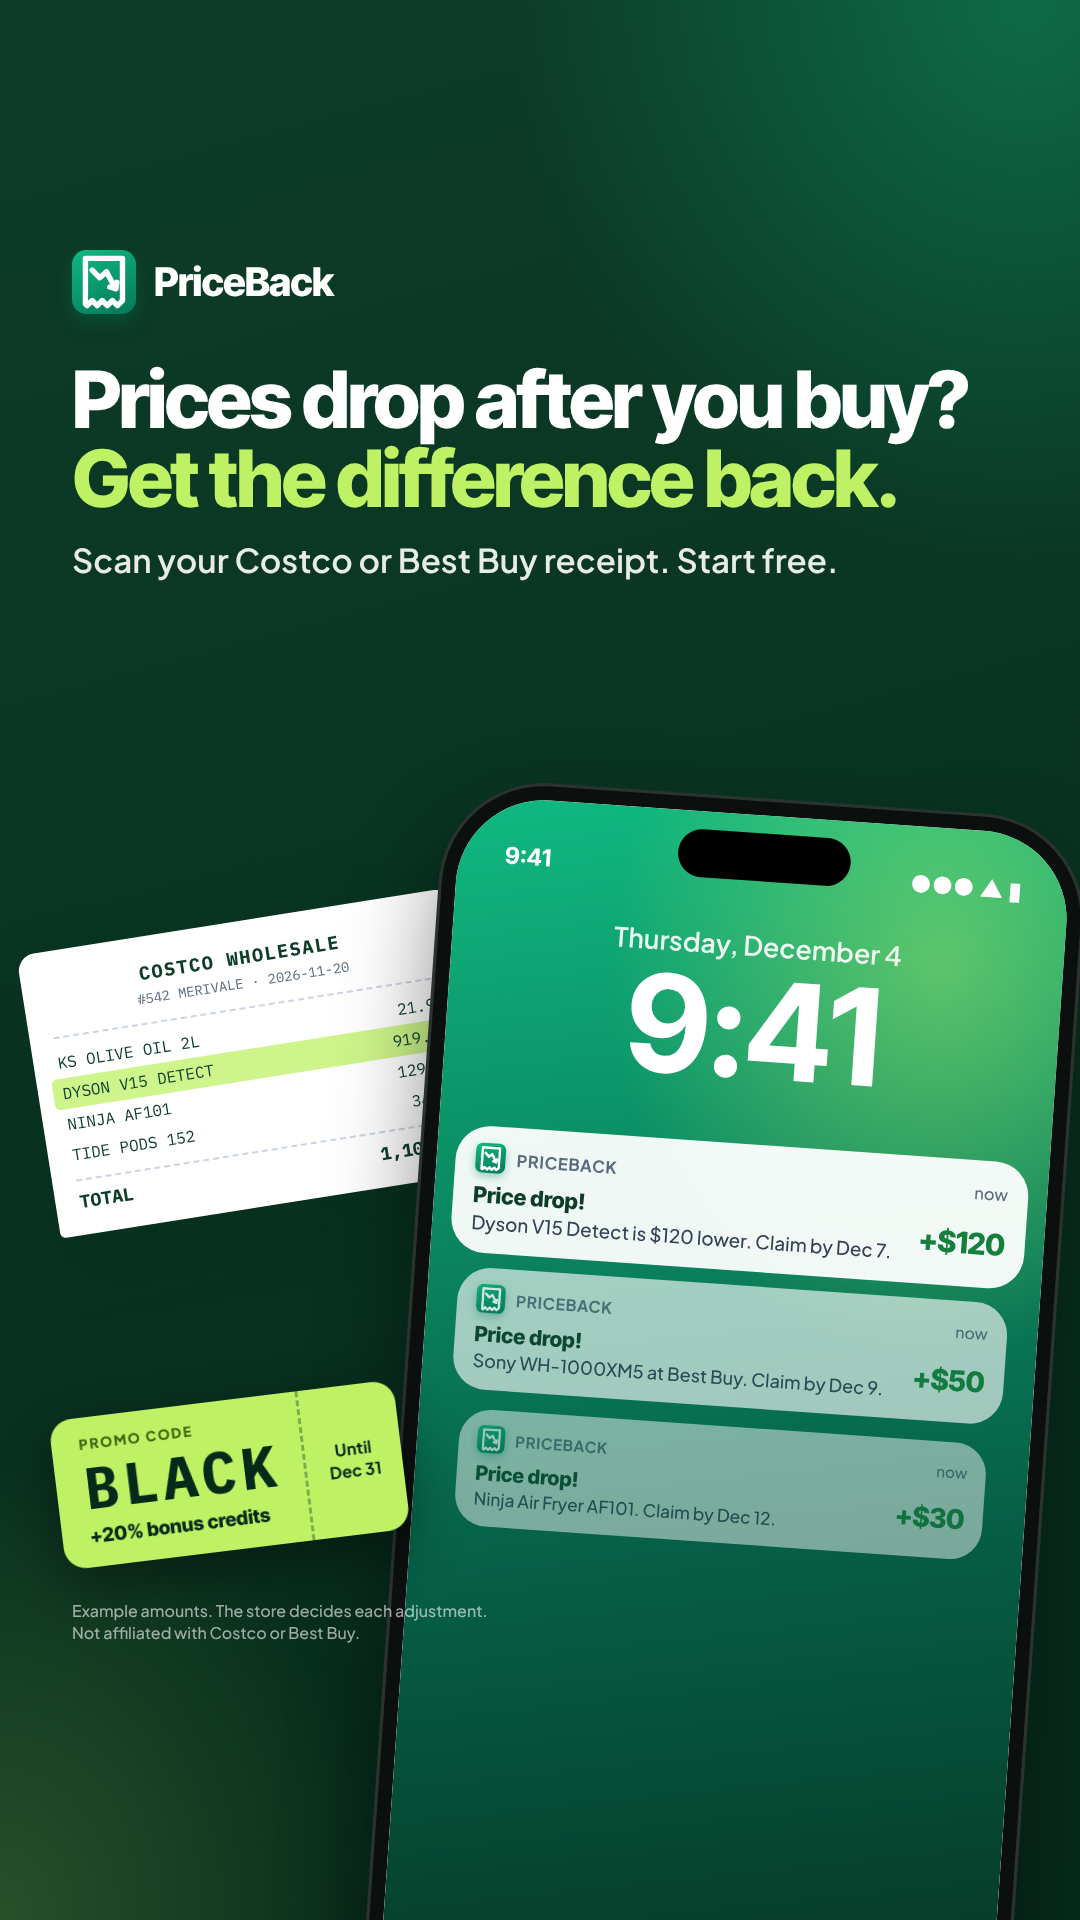
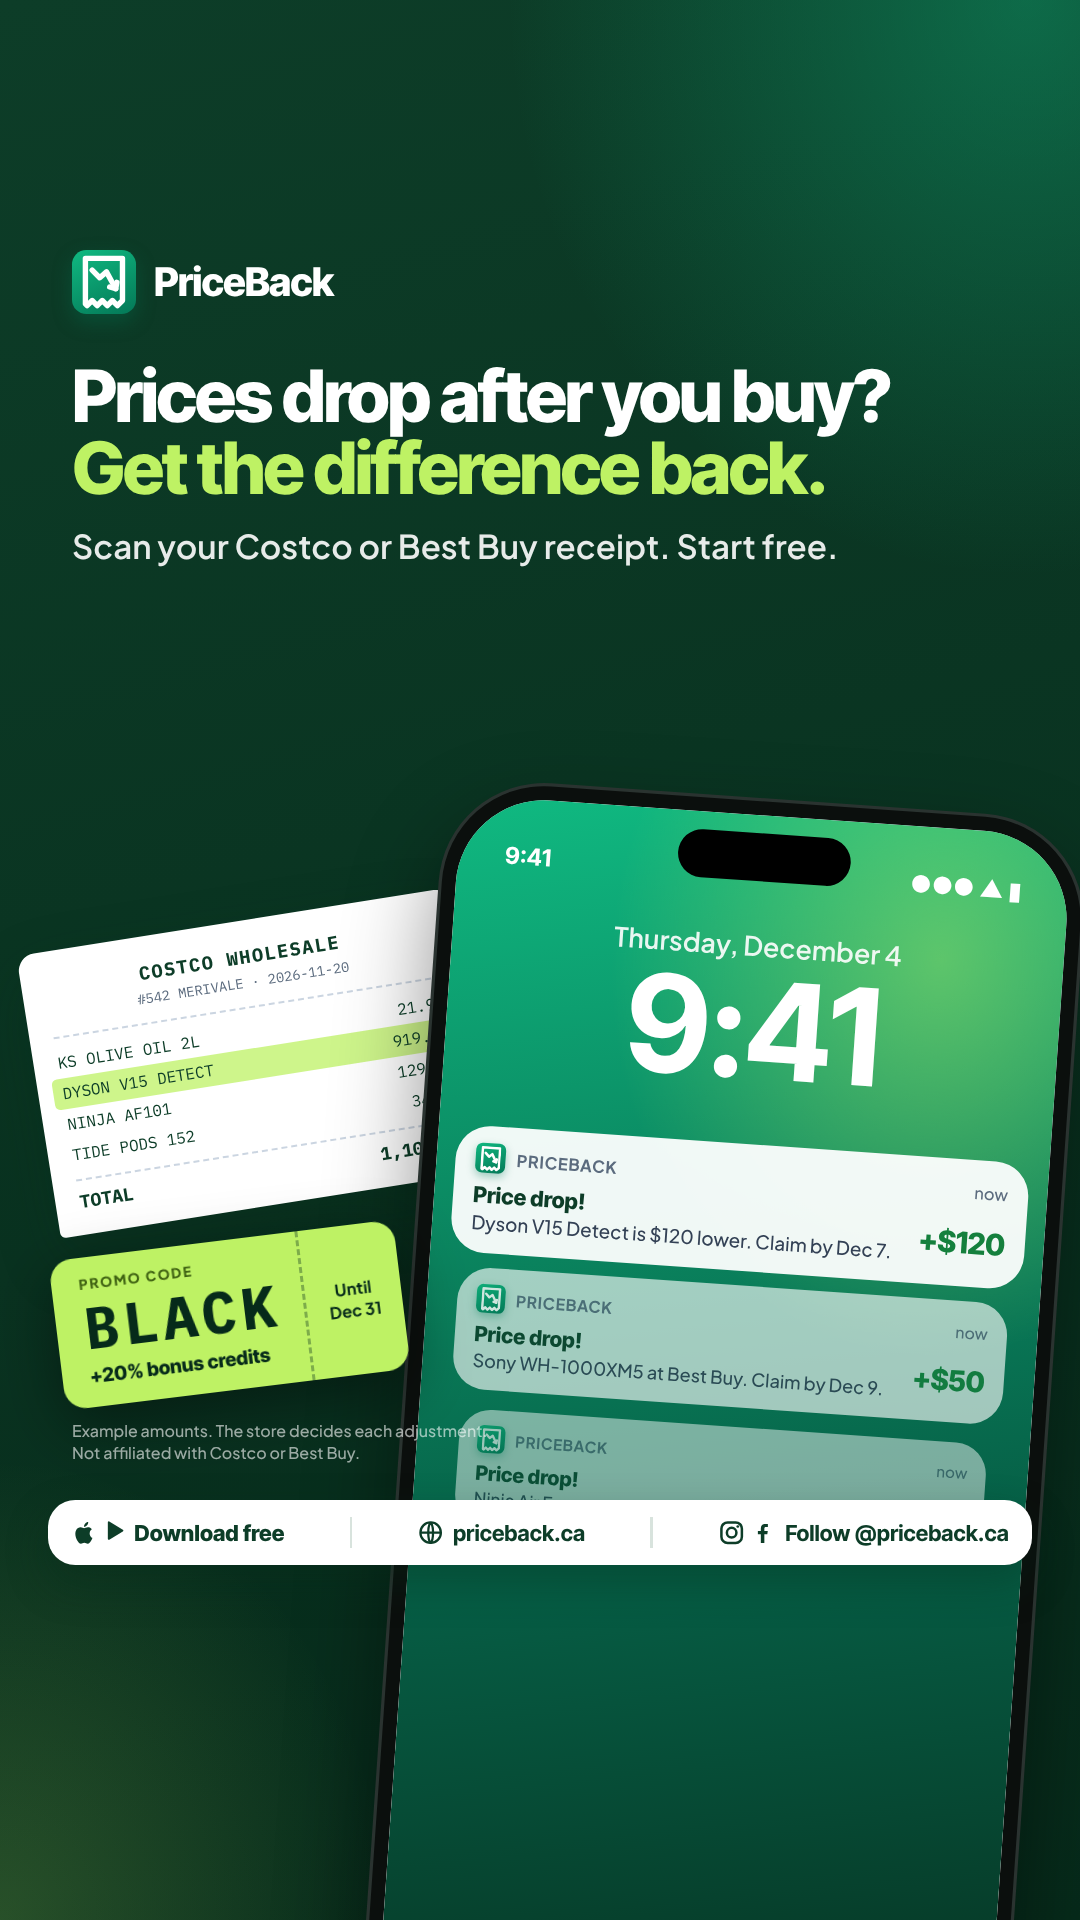
docs(marketing): five campaign-1 hooks, footer band (download, website, follow), French headline
Maxim, 2026-11-27: hooks around the real warehouse price, sold out, a saving missed
by a day and the flyer vs your warehouse, beside 'Stop asking the group'; every ad
names the download, priceback.ca and @priceback.ca. French campaign-1 headline is
Maxim's: 'Arrêtez de demander au groupe. Demandez à PriceBack.' EN first; FR for
the chosen hooks next.

Claude-Session: https://claude.ai/code/session_01VjE6kd5fuG1wTxpgLx5wMp

Changed region(s): [[0.0611, 0.1875, 0.9167, 0.3125], [0.0306, 0.625, 0.9778, 0.875]]

diff --git a/Marketing-Plan/launch-2026-12/source/creatives.html b/Marketing-Plan/launch-2026-12/source/creatives.html
@@ -199,7 +199,7 @@ const COPY = {
     prod: "Dyson V15 Detect", prodMeta: "Jusqu’au 7 déc. · −13 %", save: "−120 $",
     whs: [["Merivale #542 · ON", "En stock · aujourd’hui", "g", "799,99 $"], ["Laval · QC", "En stock · aujourd’hui", "g", "799,99 $"], ["Burnaby · BC", "En rupture · hier", "r", "799,99 $"]],
     example: "Exemple",
-    h1: "Fini de demander au groupe.", h2: "Demandez à PriceBack.",
+    h1: "Arrêtez de demander au groupe.", h2: "Demandez à PriceBack.",
     sub: "<b>Tous les rabais et prix Costco</b>, dans chaque entrepôt au Canada, Centres d’affaires inclus. Dernier stock connu. <b>Gratuit.</b>",
     plus: "En plus : numérisez vos reçus Costco et Best Buy et soyez alerté quand le prix baisse.",
     cap: "Code promo", perk: "+20 % de crédits bonis", until: "Jusqu’au<br>31 déc.",
@@ -493,7 +493,7 @@ const ADCOPY = {
           s1: "100%", s2: "FREE", s3: "No credit card",
           b: ["Anyone seen the Dyson V15 on sale at their warehouse?? 🙏", "following 👀", "following"],
           legal: "Example prices. Independent app, not affiliated with Costco." },
-    fr: { h1: "Fini de demander au groupe.", h2: "Demandez à PriceBack.", sub: "Tous les rabais et prix Costco, dans chaque entrepôt au Canada.",
+    fr: { h1: "Arrêtez de demander au groupe.", h2: "Demandez à PriceBack.", sub: "Tous les rabais et prix Costco, dans chaque entrepôt au Canada.",
           s1: "100 %", s2: "GRATUIT", s3: "Aucune carte",
           b: ["Quelqu’un a vu le Dyson V15 en rabais à son entrepôt?? 🙏", "Suivi 👀", "je suis"],
           legal: "Prix en exemple. App indépendante, non affiliée à Costco." },
@@ -510,6 +510,29 @@ const ADCOPY = {
   },
 };
 const A = ADCOPY[CAMP][LANG];
+
+/* Campaign 1 hooks (Maxim, 2026-11-27: "Are you looking for the real warehouse prices? Did you go to Costco and it
+   was too late or out of stock?"). v=1 the group (default) … v=5. English first; French once the English is settled. */
+const V = Number(q.get("v") || 1);
+const ADVAR = {
+  en: {
+    2: { h1: "Need the real warehouse price?", h2: "Every Costco. Every price.", sub: "Shelf prices at any warehouse in Canada. Search by name or item number.",
+         screen: "wh", b: ["What’s the price at Laval? 🤔", "following 👀"] },
+    3: { h1: "Drove to Costco. Sold out.", h2: "Check the stock before you go.", sub: "The last known stock at every Canadian warehouse.",
+         screen: "deals", b: ["Drove 40 min for it… sold out 😩", "same 😭", "following 👀"] },
+    4: { h1: "Missed the saving by a day?", h2: "See when every saving ends.", sub: "Every Costco saving at your warehouse, with its end date.",
+         screen: "deals", b: ["Went today. The saving ended yesterday 🙃", "every time 😑"] },
+    5: { h1: "Not the flyer. Your warehouse.", h2: "Every saving, live.", sub: "Every Costco saving in every Canadian warehouse. Business Centres too.",
+         screen: "deals", b: ["Is the flyer deal at MY warehouse?? 🤷", "following 👀"] },
+  },
+};
+const FOOT = {
+  en: { dl: "Download free", web: "priceback.ca", follow: "Follow" },
+  fr: { dl: "Téléchargez gratuitement", web: "priceback.ca", follow: "Suivez" },
+}[LANG];
+
+const AV = CAMP === "free" && V > 1 ? ((ADVAR[LANG] || ADVAR.en)[V] || null) : null;
+if (AV) Object.assign(A, AV);
 
 function phone(x, y, w, rot, inner) {
   const pad = w * .022, r = w * .16;
@@ -548,33 +571,54 @@ function blackSticker(x, y, k) {
   return `<div style="position:absolute;left:${x}px;top:${y}px;transform:rotate(-7deg);z-index:6;filter:drop-shadow(0 18px 30px rgba(0,0,0,.4))">${ticket(k, "transparent")}</div>`;
 }
 
+
+/* the footer band: download, website, follow (Maxim, 2026-11-27). Generic glyphs, never the stores' or Meta's badges. */
+const GL = {
+  apple: (s) => `<svg width="${s}" height="${s}" viewBox="0 0 24 24" fill="currentColor"><path d="M16.4 12.6c0-2.3 1.9-3.4 2-3.5-1.1-1.6-2.8-1.8-3.4-1.8-1.4-.1-2.8.9-3.5.9s-1.8-.9-3-.9C6.9 7.3 5.4 8.2 4.6 9.7c-1.7 2.9-.4 7.2 1.2 9.6.8 1.2 1.7 2.4 2.9 2.4 1.2 0 1.6-.8 3-.8s1.8.8 3 .8c1.3 0 2.1-1.2 2.8-2.3.9-1.3 1.3-2.6 1.3-2.7 0 0-2.4-.9-2.4-4.1zM14.1 5.6c.6-.8 1.1-1.8 1-2.9-.9 0-2.1.6-2.7 1.4-.6.7-1.1 1.8-1 2.8 1 .1 2.1-.5 2.7-1.3z"/></svg>`,
+  play: (s) => `<svg width="${s}" height="${s}" viewBox="0 0 24 24" fill="currentColor"><path d="M5 3.5v17a1 1 0 0 0 1.5.9l14-8.5a1 1 0 0 0 0-1.8l-14-8.5A1 1 0 0 0 5 3.5z"/></svg>`,
+  web: (s) => `<svg width="${s}" height="${s}" viewBox="0 0 24 24" fill="none" stroke="currentColor" stroke-width="2"><circle cx="12" cy="12" r="9"/><path d="M3 12h18M12 3c2.8 3 2.8 15 0 18M12 3c-2.8 3-2.8 15 0 18"/></svg>`,
+  ig: (s) => `<svg width="${s}" height="${s}" viewBox="0 0 24 24" fill="none" stroke="currentColor" stroke-width="2.2"><rect x="3" y="3" width="18" height="18" rx="5.5"/><circle cx="12" cy="12" r="4.2"/><circle cx="17.4" cy="6.6" r="1.2" fill="currentColor" stroke="none"/></svg>`,
+  fb: (s) => `<svg width="${s}" height="${s}" viewBox="0 0 24 24" fill="currentColor"><path d="M13.5 21v-7.5h2.6l.4-3h-3V8.6c0-.9.3-1.5 1.5-1.5h1.6V4.4c-.3 0-1.2-.1-2.3-.1-2.3 0-3.9 1.4-3.9 4v2.2H7.8v3h2.6V21h3.1z"/></svg>`,
+};
+function footer(c) {
+  const k = c.fk, ic = 26 * k;
+  const item = (g, t, strong) => `<span style="display:inline-flex;align-items:center;gap:${8 * k}px;font-family:var(--T);font-weight:${strong ? 800 : 700};font-size:${21 * k}px;color:var(--ink);white-space:nowrap">${g}${t}</span>`;
+  const sep = `<span style="width:${2 * k}px;height:${30 * k}px;background:var(--border);display:inline-block"></span>`;
+  return `<div style="position:absolute;left:${c.fx}px;right:${c.fx}px;top:${c.fy}px;z-index:8;background:#fff;border-radius:${26 * k}px;padding:${16 * k}px ${22 * k}px;
+      box-shadow:0 18px 40px rgba(6,42,26,.35);display:flex;align-items:center;justify-content:space-between;gap:${12 * k}px">
+    ${item(`<span style="display:inline-flex;gap:${4 * k}px">${GL.apple(ic)}${GL.play(ic * .85)}</span>`, FOOT.dl, true)}${sep}
+    ${item(GL.web(ic), FOOT.web)}${sep}
+    ${item(`<span style="display:inline-flex;gap:${4 * k}px">${GL.ig(ic)}${GL.fb(ic)}</span>`, `${FOOT.follow} @priceback.ca`)}</div>`;
+}
+
 /* per format: [W, H, logo{x,y,s}, head{y,size}, phone{x,y,w,rot}, stickers, bubbles/receipt, legal{y}] */
 const ADL = {
   poster: { W: 1080, H: 1350, lx: 64, ly: 56, ls: 58, hy: 150, hs: 84, ss: 30, px: 452, py: 470, pw: 560, pr: 4,
-            fs: [790, 350, 236], bub: [[36, 560, 500, 1], [70, 800, 0, 0], [100, 900, 0, 0]], bx: 60, by: 1080, bk: .82,
-            rc: [40, 560, 420, -9, 1.05], ly2: 1300 },
-  story:  { W: 1080, H: 1920, lx: 72, ly: 250, ls: 64, hy: 360, hs: 92, ss: 33, px: 400, py: 800, pw: 640, pr: 4,
-            fs: [770, 600, 260], bub: [[40, 1060, 540, 1], [70, 1330, 0, 0], [100, 1440, 0, 0]], bx: 56, by: 1400, bk: .92,
-            rc: [36, 920, 440, -9, 1.1], ly2: 1600 },
+            fs: [790, 350, 236], bub: [[36, 560, 500, 1], [70, 800, 0, 0], [100, 900, 0, 0]], bx: 60, by: 1010, bk: .82,
+            rc: [40, 560, 420, -9, 1.05], ly2: 1170, fx: 40, fy: 1240, fk: 1 },
+  story:  { W: 1080, H: 1920, lx: 72, ly: 250, ls: 64, hy: 360, hs: 84, ss: 33, px: 400, py: 800, pw: 640, pr: 4,
+            fs: [770, 600, 260], bub: [[40, 1000, 540, 1], [70, 1190, 0, 0], [100, 1290, 0, 0]], bx: 56, by: 1240, bk: .92,
+            rc: [36, 920, 440, -9, 1.1], ly2: 1420, fx: 48, fy: 1500, fk: 1.05 },
   square: { W: 1080, H: 1080, lx: 56, ly: 44, ls: 50, hy: 122, hs: 70, ss: 26, px: 540, py: 380, pw: 460, pr: 4,
-            fs: [830, 270, 200], bub: [[36, 430, 520, 1], [70, 650, 0, 0], [100, 740, 0, 0]], bx: 50, by: 860, bk: .72,
-            rc: [40, 440, 380, -9, .95], ly2: 1044 },
+            fs: [830, 270, 200], bub: [[36, 430, 520, 1], [70, 650, 0, 0], [100, 740, 0, 0]], bx: 50, by: 770, bk: .72,
+            rc: [40, 440, 380, -9, .95], ly2: 930, fx: 32, fy: 990, fk: .92 },
 };
 function ad(fmt) {
   const c = ADL[fmt], free = CAMP === "free";
-  const hs = A.h1.length > 26 ? c.hs * .78 : A.h1.length > 24 ? c.hs * .86 : c.hs;
+  const hl = Math.max(A.h1.length, A.h2.length * 1.06);
+  const hs = hl > 30 ? c.hs * .72 : hl > 26 ? c.hs * .78 : hl > 24 ? c.hs * .86 : c.hs;
   const bg = free
     ? "radial-gradient(80% 50% at 95% 0%, rgba(255,255,255,.22), transparent 60%), radial-gradient(60% 40% at 0% 100%, rgba(190,242,100,.35), transparent 60%), linear-gradient(165deg,#10b981 0%,#047857 100%)"
     : "radial-gradient(80% 50% at 95% 0%, rgba(16,185,129,.38), transparent 60%), radial-gradient(60% 40% at 0% 100%, rgba(190,242,100,.18), transparent 60%), linear-gradient(165deg,#0d3d28 0%,#062a1a 100%)";
   const logo = `<div style="position:absolute;left:${c.lx}px;top:${c.ly}px;display:flex;align-items:center;gap:${c.ls * .28}px">${tile(c.ls)}<b style="font-family:var(--T);font-weight:800;font-size:${c.ls * .62}px;letter-spacing:-1px;color:#fff">PriceBack</b></div>`;
   const head = `<div style="position:absolute;left:${c.lx}px;right:${c.lx}px;top:${c.hy}px">
       <div style="font-family:var(--T);font-weight:800;font-size:${hs}px;line-height:1.0;letter-spacing:${-hs * .035}px;color:#fff">${A.h1}<span style="display:block;color:var(--lime)">${A.h2}</span></div>
-      <div style="font-family:var(--J);font-weight:600;font-size:${c.ss}px;line-height:1.35;color:rgba(255,255,255,.9);margin-top:${c.ss * .6}px;max-width:${c.W * .8}px">${A.sub}</div></div>`;
+      <div style="font-family:var(--J);font-weight:600;font-size:${c.ss}px;line-height:1.35;color:rgba(255,255,255,.9);margin-top:${c.ss * .6}px;max-width:${free ? c.fs[0] - c.lx - 24 : c.W * .8}px">${A.sub}</div></div>`;
   const legal = `<div style="position:absolute;left:${c.lx}px;top:${c.ly2}px;width:${free ? c.px - c.lx - 30 : c.W * .4}px;font-family:var(--J);font-weight:500;font-size:${c.W > 1000 && c.H > 1500 ? 16 : 14}px;line-height:1.35;color:rgba(255,255,255,.6);z-index:7">${A.legal}</div>`;
   let body;
   if (free) {
-    body = phone(c.px, c.py, c.pw, c.pr, (sw) => zoomed(dealsScreen(), sw))
-      + c.bub.map(([x, y, w, big], i) => bubble(x, y, big ? w : 420, A.b[i], big, i, i ? 0 : -2)).join("")
+    body = phone(c.px, c.py, c.pw, c.pr, (sw) => zoomed(A.screen === "wh" ? whScreen() : dealsScreen(), sw))
+      + c.bub.slice(0, A.b.length).map(([x, y, w, big], i) => bubble(x, y, big ? w : 420, A.b[i], big, i, i ? 0 : -2)).join("")
       + freeSticker(c.fs[0], c.fs[1], c.fs[2]);
   } else {
     const [rx, ry, rw, rr, rk] = c.rc;
@@ -582,7 +626,7 @@ function ad(fmt) {
       + phone(c.px, c.py, c.pw, c.pr, lockScreen)
       + blackSticker(c.bx, c.by, c.bk);
   }
-  return `<div class="art" style="width:${c.W}px;height:${c.H}px;background:${bg}">${logo}${head}${body}${legal}</div>`;
+  return `<div class="art" style="width:${c.W}px;height:${c.H}px;background:${bg}">${logo}${head}${body}${legal}${footer(c)}</div>`;
 }
 
 const R = { poster: () => ad("poster"), story: () => ad("story"), square: () => ad("square"), info4x5: poster, info9x16: story, info1x1: square, store1, store2 }[F] || (() => ad("poster"));

diff --git a/Marketing-Plan/14-launch-campaign-stop-asking-the-group.md b/Marketing-Plan/14-launch-campaign-stop-asking-the-group.md
@@ -182,7 +182,7 @@ people are waiting for an answer"; 5–12 s open PriceBack → Deals → pick th
 - FR: *« Quelqu'un l'a vu en rabais à son entrepôt? » … « Suivi 👀 » … Passez les 64 commentaires. PriceBack montre
   tous les rabais et prix Costco, dans chaque entrepôt au Canada (Centres d'affaires inclus), avec le dernier stock
   connu. 100 % gratuit. Aucune carte de crédit.*
-- Headline: *Stop asking the group. Ask PriceBack.* / *Fini de demander au groupe. Demandez à PriceBack.*
+- Headline: *Stop asking the group. Ask PriceBack.* / *Arrêtez de demander au groupe. Demandez à PriceBack.*
 - Description: *Free on iPhone and Android* / *Gratuit sur iPhone et Android*
 
 **1b — The stock run.** *Driving 40 minutes for something that's sold out? Check the last known stock at any Canadian
@@ -192,6 +192,29 @@ le dernier stock connu à n'importe quel entrepôt au Canada. Gratuit dans Price
 **1c — Not a flyer.** *Not a flyer. Every Costco saving running right now, at your warehouse and every other one in
 Canada, with the regular price beside it. Free.* / *Pas une circulaire. Tous les rabais Costco en cours, à votre
 entrepôt et dans tous les autres au Canada, avec le prix régulier à côté. Gratuit.*
+
+### Campaign 1 — five hooks to test (2026-11-27)
+
+Maxim: *"Are you looking for the real warehouse prices? Did you go to Costco and it was too late or out of stock?
+These are just ideas, rephrase and create something in this angle … mention also to follow the social media pages and
+download the app and the website"*. Same layout for all five (emerald, the app on a phone, the 100 % FREE sticker, one
+group-style bubble). **English first; the French follows once the English hooks are chosen.** Images:
+`launch-2026-12/meta-ads/campaign-1-free-tools/en/<hook>/`.
+
+| # | Image headline (white / lime) | Bubble | Screen | Primary text to pair it with (EN) |
+|---|---|---|---|---|
+| 1 | Stop asking the group. / Ask PriceBack. | "Anyone seen the Dyson V15 on sale at their warehouse?? 🙏" + "following 👀" | Deals | 1a above |
+| 2 | Need the real warehouse price? / Every Costco. Every price. | "What's the price at Laval? 🤔" | Warehouse prices | *The flyer shows one price. Your warehouse might show another. PriceBack shows the shelf price at any Costco in Canada, by name or item number. Free, no credit card.* |
+| 3 | Drove to Costco. Sold out. / Check the stock before you go. | "Drove 40 min for it… sold out 😩" + "same 😭" | Deals (stock chips) | 1b above |
+| 4 | Missed the saving by a day? / See when every saving ends. | "Went today. The saving ended yesterday 🙃" | Deals ("Ending this week") | *Every Costco saving at your warehouse, with the day it ends. Filter "Ending this week" and never show up a day late again. Free.* |
+| 5 | Not the flyer. Your warehouse. / Every saving, live. | "Is the flyer deal at MY warehouse?? 🤷" | Deals | 1c above |
+
+Test them as one ad set with five ads (Meta's creative rotation picks the winner), EN only, then translate the best two.
+
+**Footer on every ad (both campaigns):** a white band at the bottom: *Download free* (App Store + Google Play glyphs) ·
+*priceback.ca* · *Follow @priceback.ca* (Instagram + Facebook glyphs). Generic glyphs, never the official store badges
+or Meta logos. On Stories it sits above the zone the platform covers. **To confirm:** the Facebook page's @ handle (the
+band assumes it matches Instagram's `@priceback.ca`).
 
 ### Campaign 2 — Receipt scanner + BLACK (retargeting first)
 
@@ -217,7 +240,7 @@ images say "Costco" as descriptive use with the disclaimer, and Google decides a
 
 | Campaign 1 headlines (≤ 30) EN | FR |
 |---|---|
-| Stop asking the group | Fini de demander au groupe |
+| Stop asking the group | Arrêtez de demander au groupe |
 | Every warehouse saving, free | Les rabais de votre entrepôt |
 | Prices at every warehouse | Le prix à chaque entrepôt |
 | Is it in stock? Check first | En stock? Vérifiez avant |

diff --git a/Marketing-Plan/launch-2026-12/README.md b/Marketing-Plan/launch-2026-12/README.md
@@ -4,13 +4,13 @@ Plan and copy: [`../14-launch-campaign-stop-asking-the-group.md`](../14-launch-c
 
 | Folder | Where it goes | Sizes |
 |---|---|---|
-| `meta-ads/campaign-1-free-tools/{en,fr}/` | **Facebook + Instagram ads** (Meta Ads Manager), campaign 1: Deals + Warehouse prices, free. No code, no scanner | `feed-4x5` 1080×1350 (Feed), `story-reel-9x16` 1080×1920 (Stories, Reels), `square-1x1` 1080×1080 (Feed alt., Google Display / Demand Gen) |
+| `meta-ads/campaign-1-free-tools/<lang>/<hook>/` | **Facebook + Instagram ads** (Meta Ads Manager), campaign 1: Deals + Warehouse prices, free. No code, no scanner. Five hooks in EN (`1-stop-asking-the-group` … `5-not-the-flyer`); FR has hook 1 until the EN hooks are chosen | `feed-4x5` 1080×1350 (Feed), `story-reel-9x16` 1080×1920 (Stories, Reels), `square-1x1` 1080×1080 (Feed alt., Google Display / Demand Gen) |
 | `meta-ads/campaign-2-receipt-scan-black/{en,fr}/` | **Facebook + Instagram ads**, campaign 2: receipt scan (Costco + Best Buy), start free, code BLACK | same three |
 | `app-store-screenshots/{en,fr}/` | **App Store Connect** (iPhone 6.9" slot) and **Google Play** (phone screenshots). Slots 1–2 of 10; no promo code, by policy | 1320×2868 |
 
-The ad images carry no button and no paragraph: in Ads Manager, the **primary text**, the **headline** and the
+Every ad ends with a footer band: Download free · priceback.ca · Follow @priceback.ca. The ad images carry no paragraph: in Ads Manager, the **primary text**, the **headline** and the
 **Install** button are typed in the ad, under the image (copy in §5 of the plan).
 
 Everything renders from `source/creatives.html`:
-`?c=free|scan&f=poster|story|square|store1|store2|info4x5|info9x16|info1x1&lang=en|fr`
+`?c=free|scan&v=1..5&f=poster|story|square|store1|store2|info4x5|info9x16|info1x1&lang=en|fr`
 (`info*` = the earlier info-sheet layouts, kept for organic posts and the carousel's last slide).
